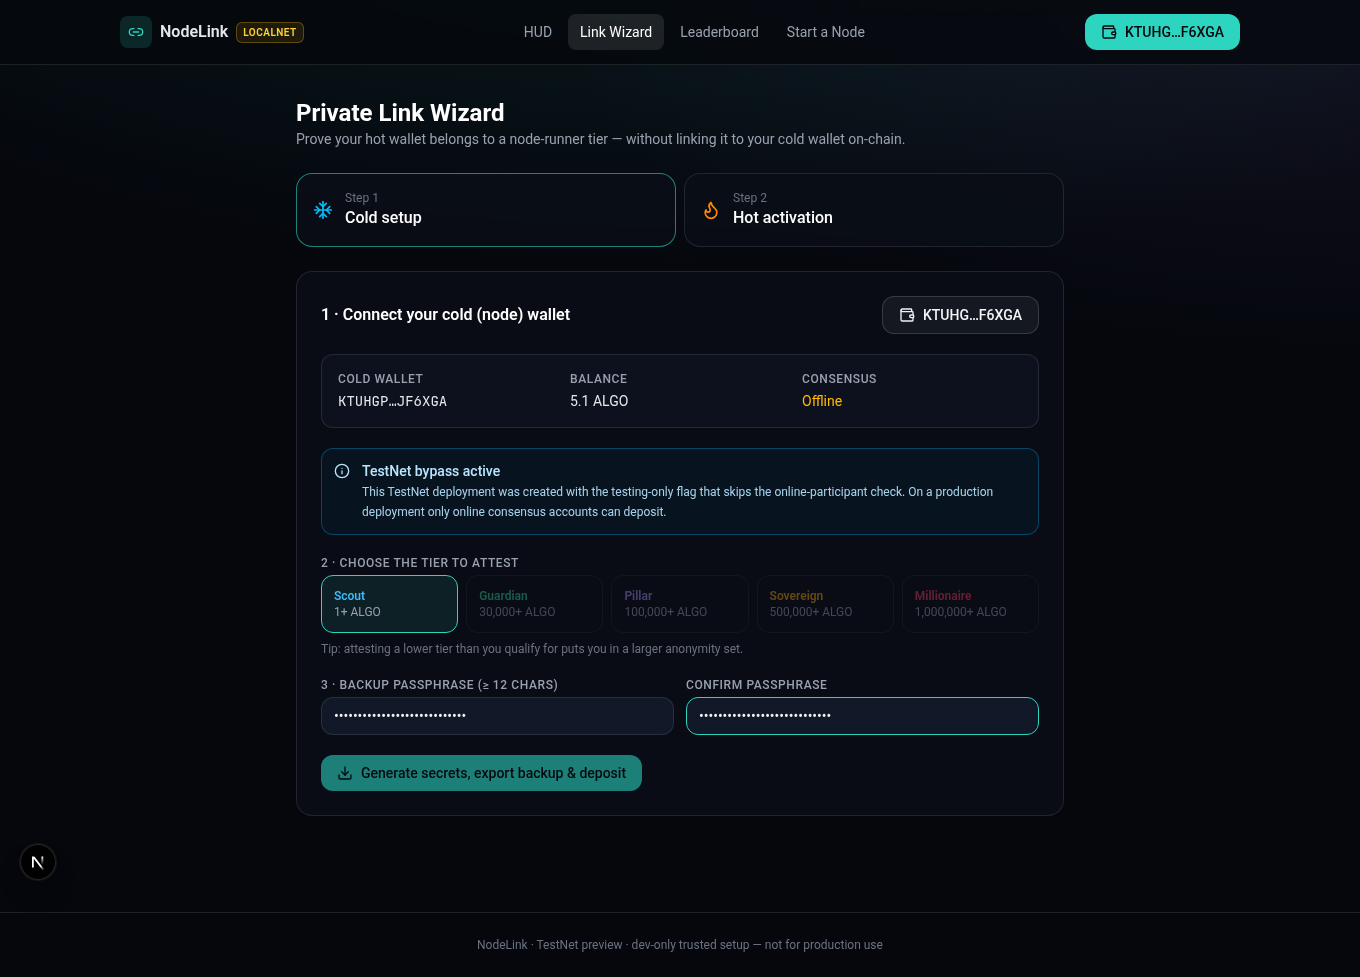
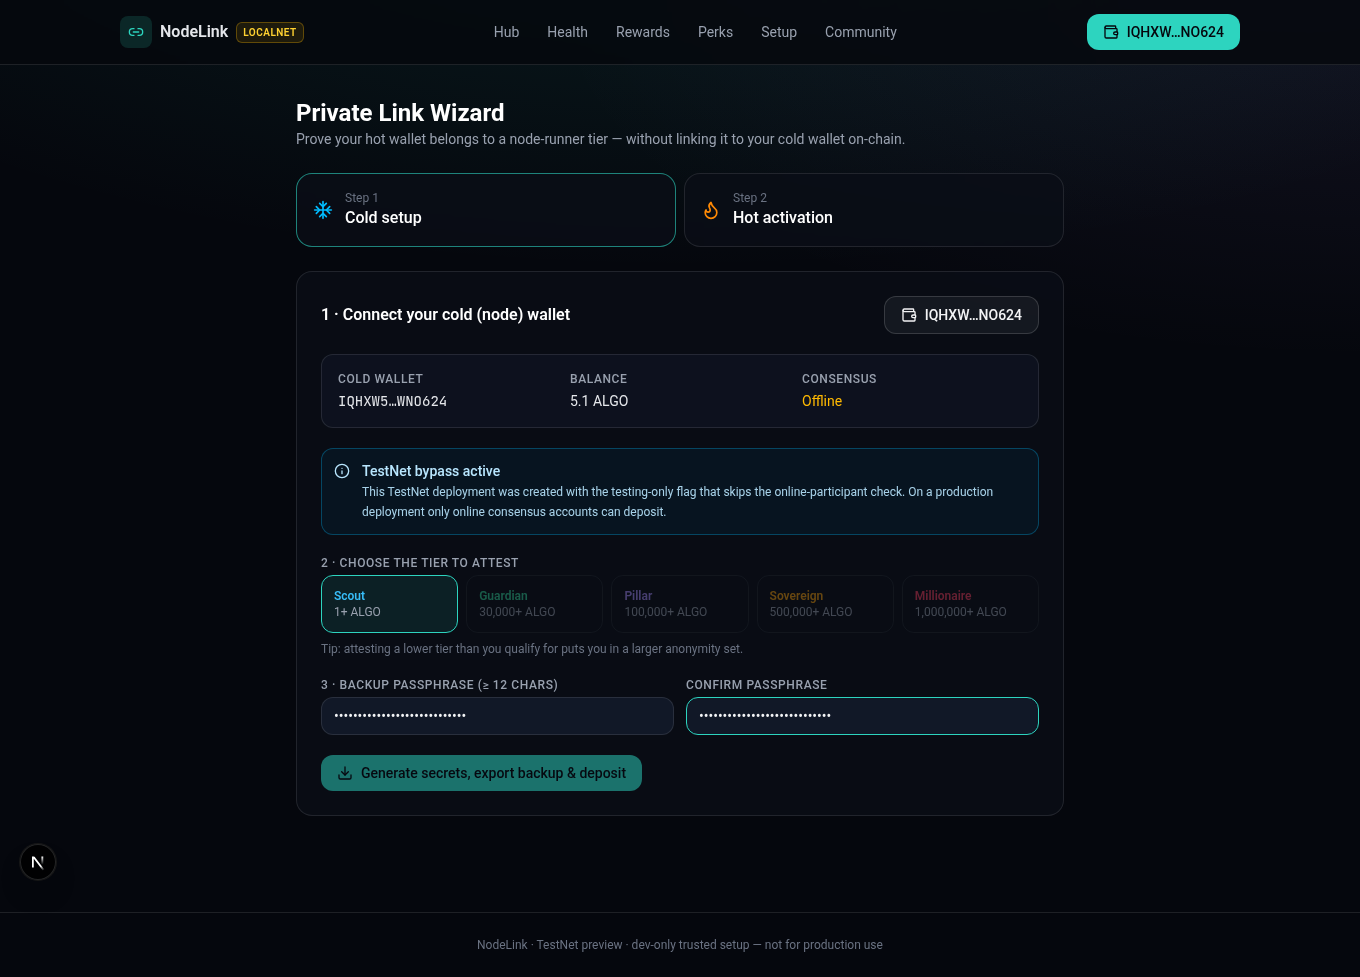
Browser E2E: assert new hub (4 squares + community bar, live round) on LocalNet — all steps passing

diff --git a/scripts/tests/browser.localnet.ts b/scripts/tests/browser.localnet.ts
@@ -46,9 +46,13 @@ async function connectMnemonic(): Promise<void> {
 }
 
 try {
-  step("landing page renders + live stats");
+  step("hub renders: 4 square sections + community bar, live round");
   await page.goto(BASE);
-  await page.getByText("Claim your perks hot.").waitFor();
+  await page.getByText("all in one place.").waitFor();
+  for (const name of ["Node health & alerts", "Rewards & earnings", "Perks & launchpad", "Node setup & management", "Community & leaderboard"]) {
+    await page.getByRole("link", { name }).waitFor();
+  }
+  await page.getByText(/LOCALNET round/).waitFor({ timeout: 20_000 });
   await page.waitForTimeout(2_000);
   await page.screenshot({ path: resolve(OUT, "landing.png"), fullPage: true });
 
